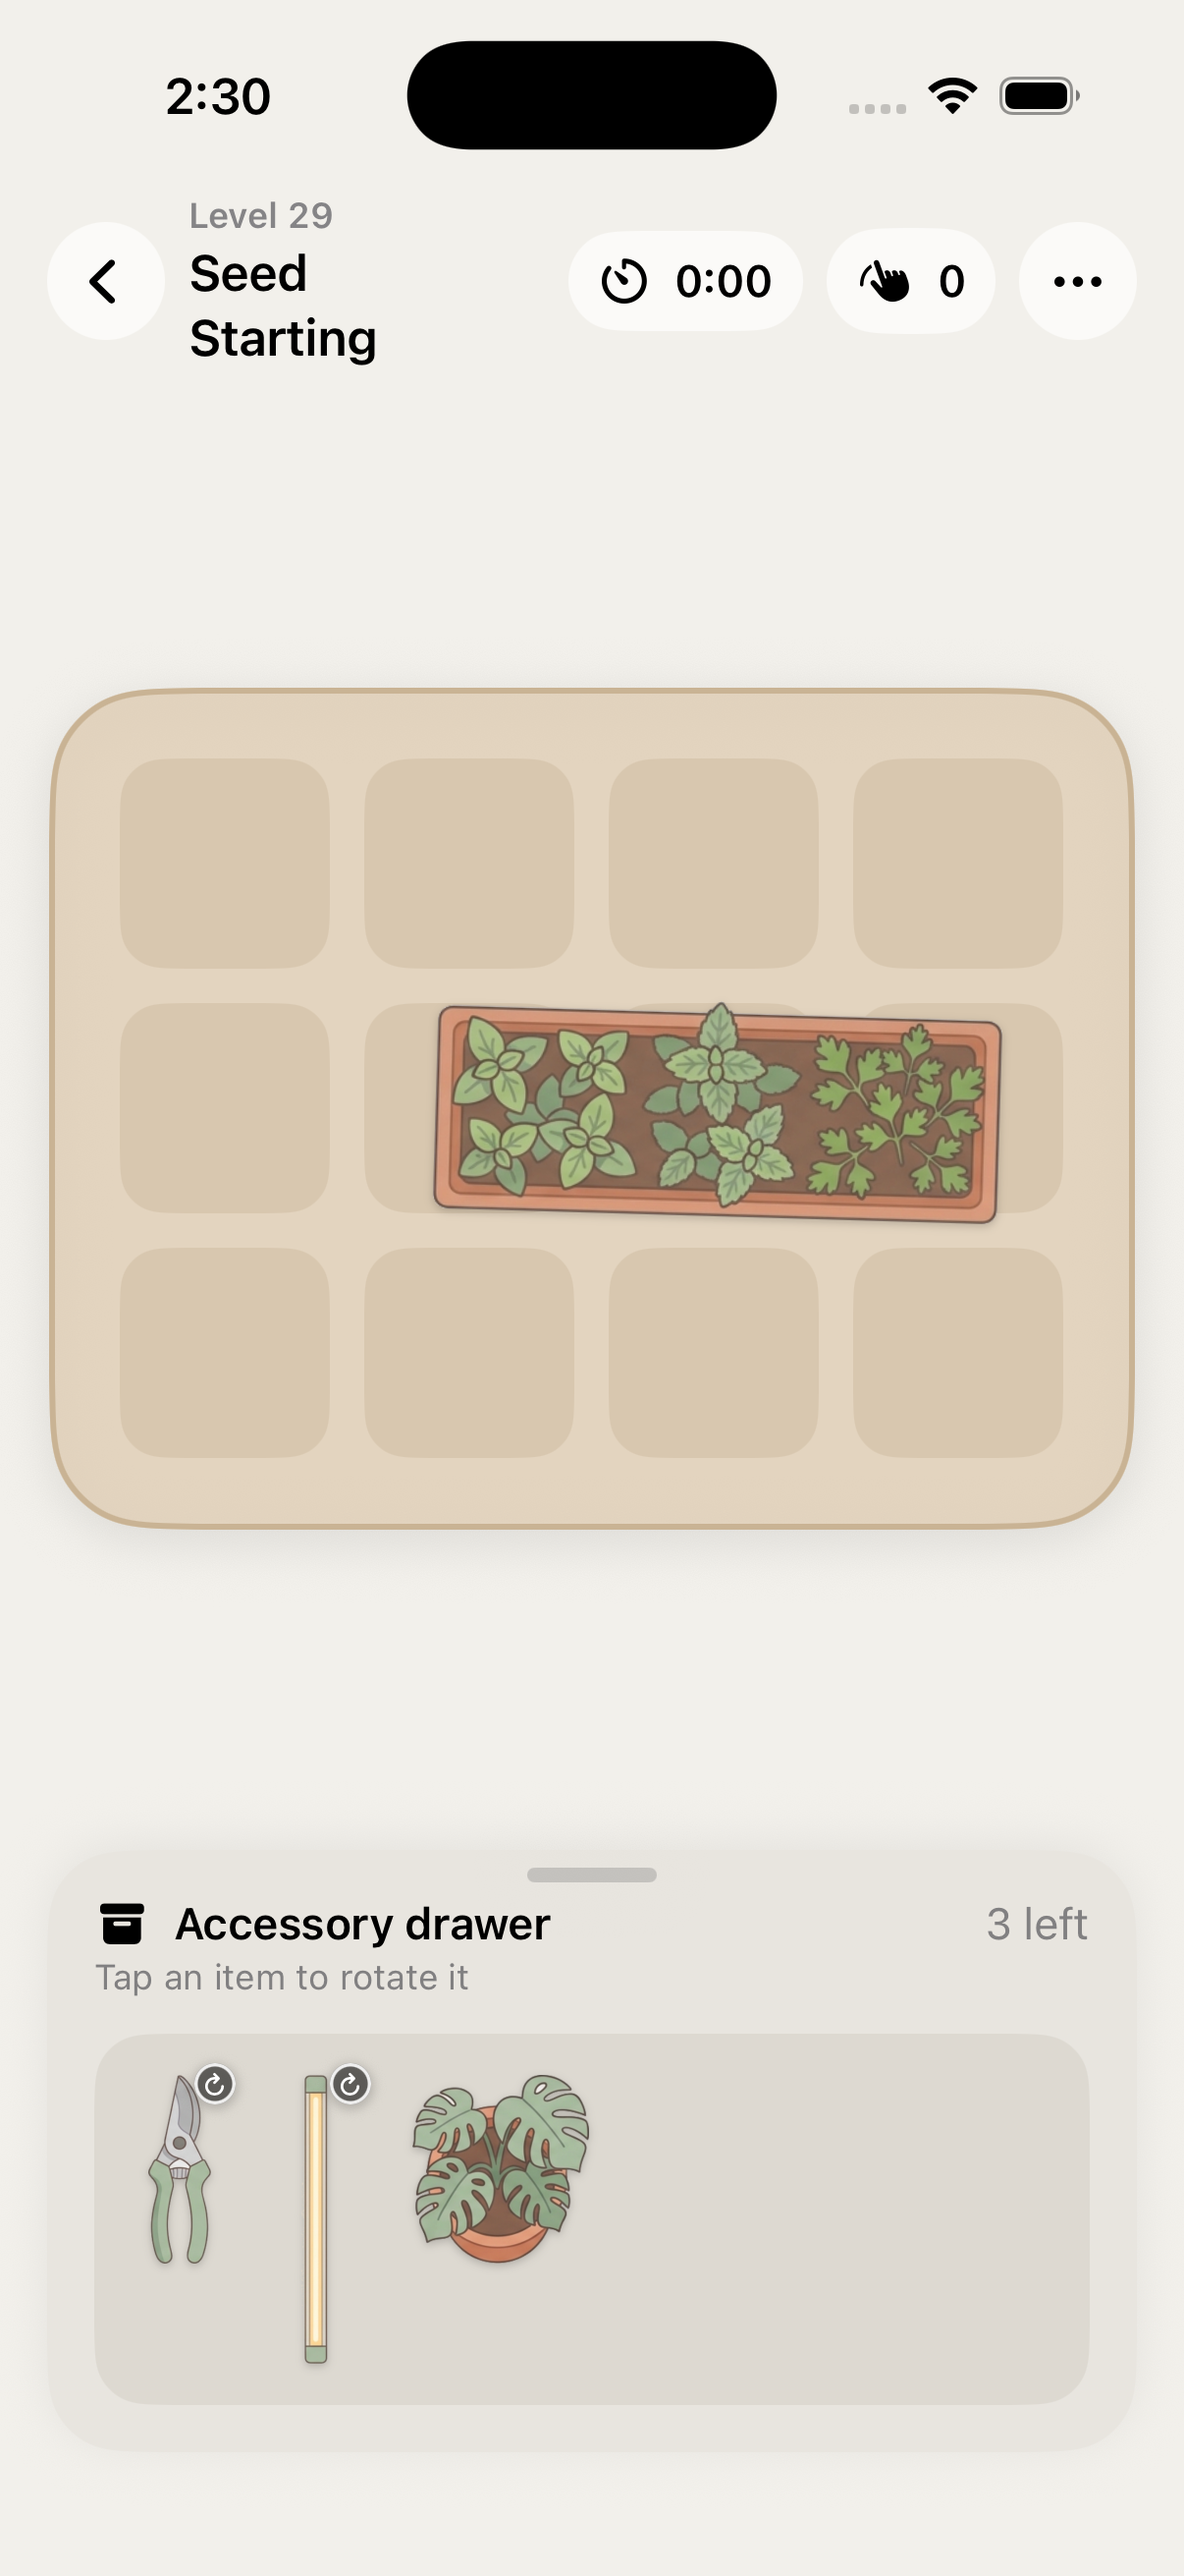
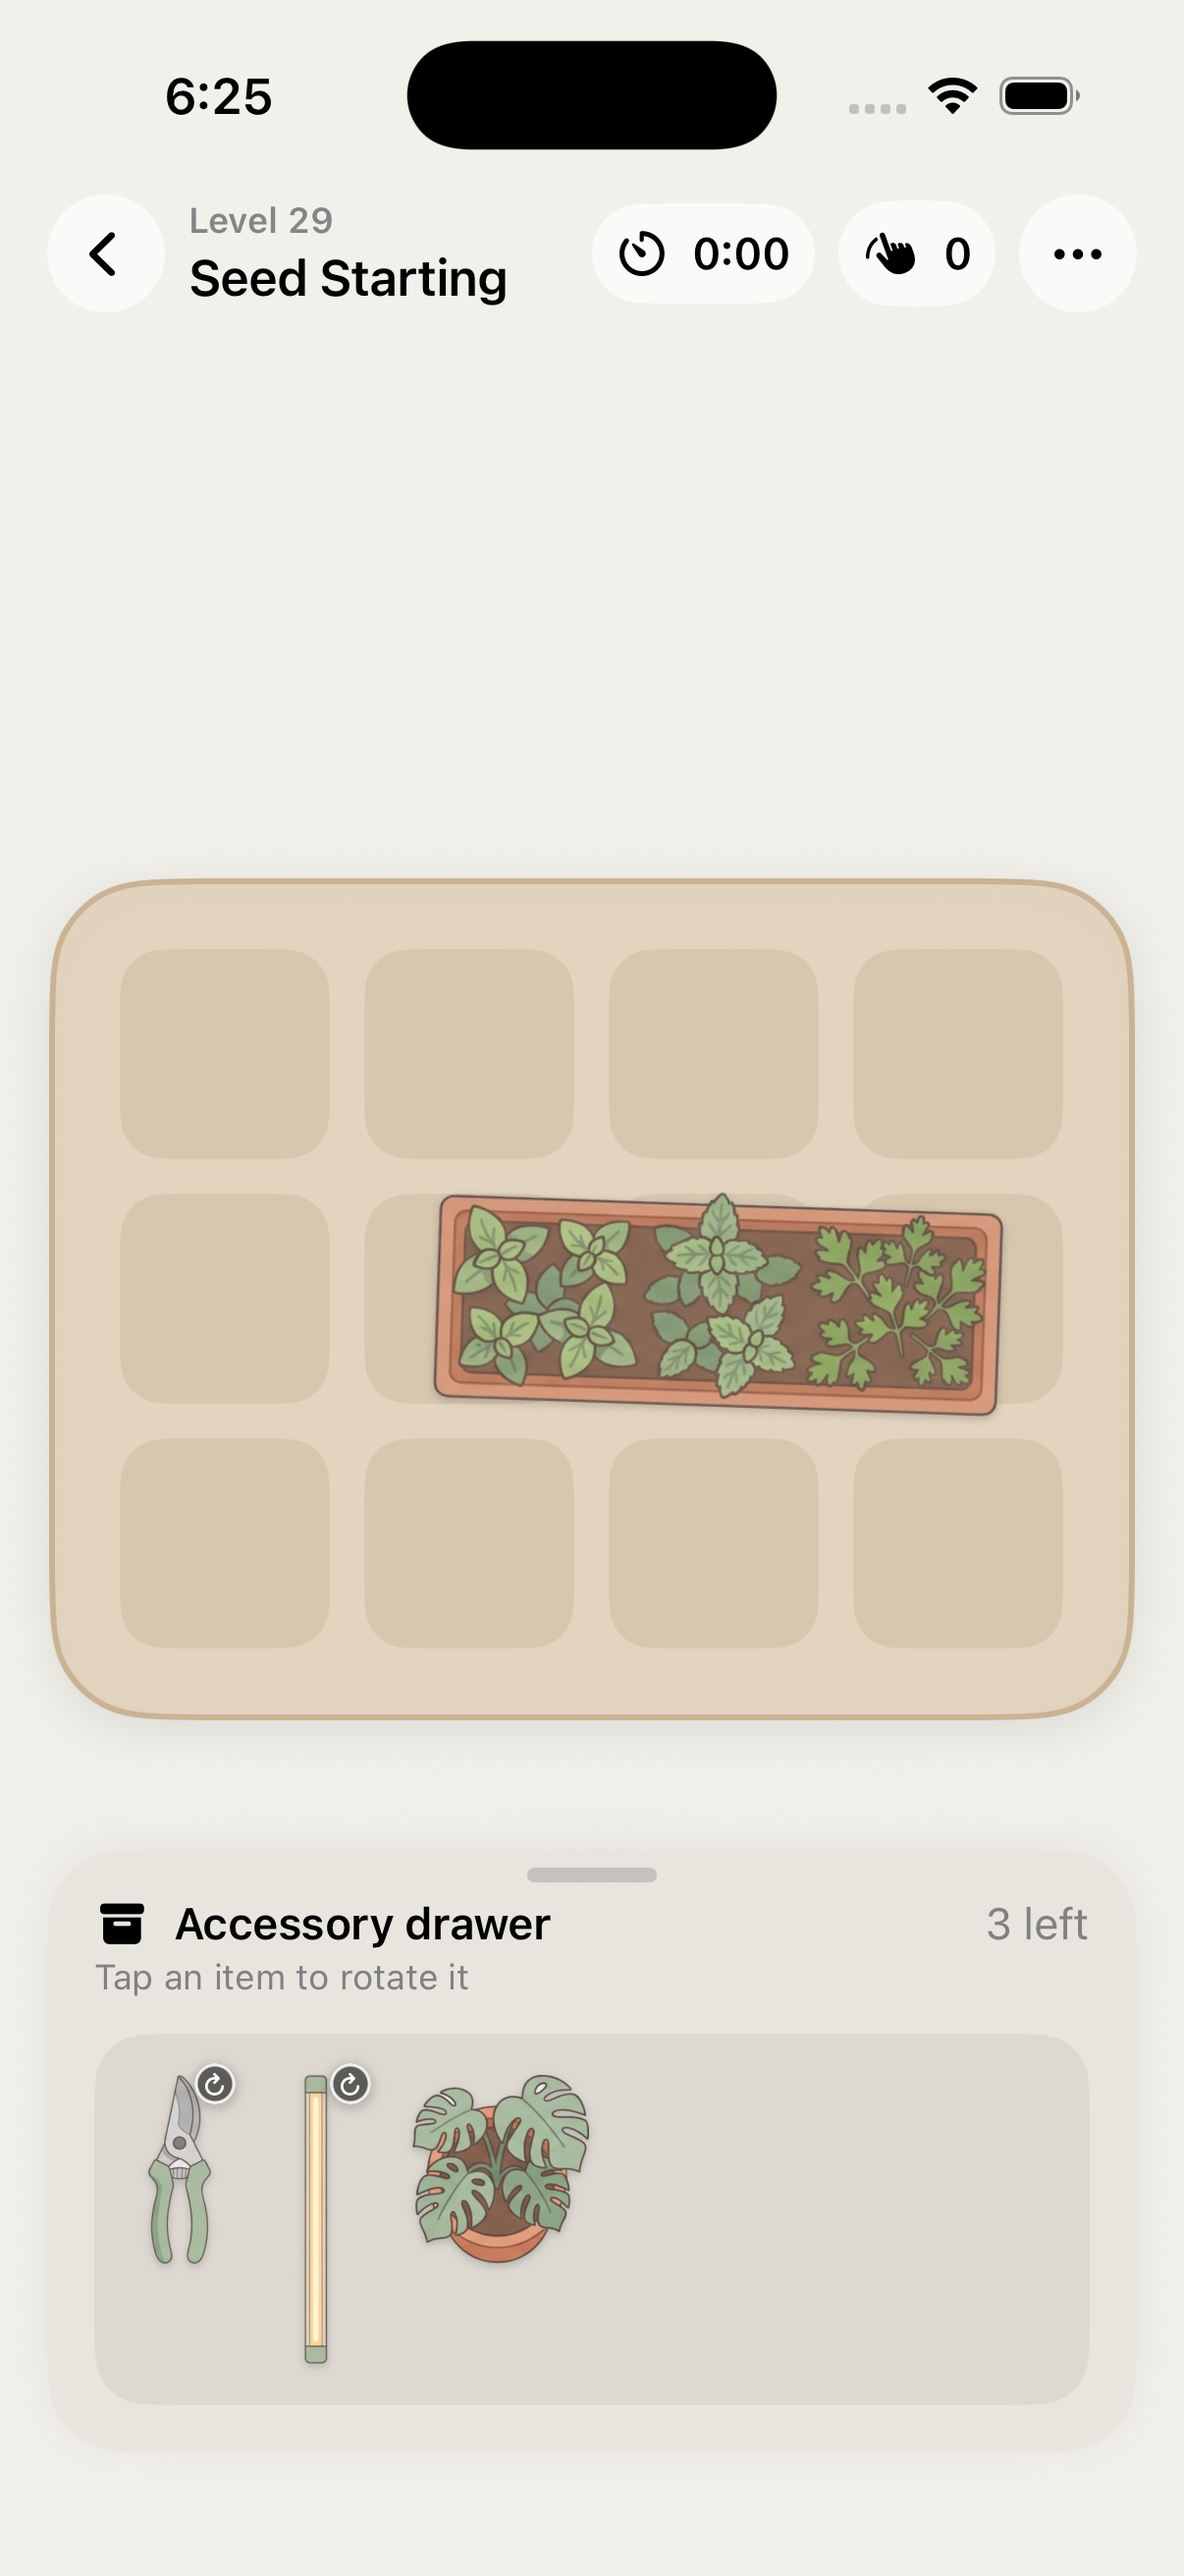
Mac build/test + screenshots (775f01d)

diff --git a/PROJECT_NOTES.md b/PROJECT_NOTES.md
@@ -1,6 +1,6 @@
 # Tidy Desk: Tech & Setup — Ghi chú dự án
 
-> Cập nhật: 2026-11-15 · Trạng thái: build OK + 107/108 test pass, 1 skip (ArtPreviewTests, đúng thiết kế) trên Mac ở commit `5a322ed` (38 màn / 4 chương, Baby Corner giai đoạn A, bé sinh động). **Chưa build:** Việc tốt (`31b700d`), 3 tab + chỉnh giao diện (`760771f`) → TestFlight bản 8 (bundle mới `com.powervh.wrapper.test.beta1`, mục 5b). `tools/check_levels.py`: 38/38 OK · `tools/check_assets.py`: 41/41 hình (16 WARN tỉ lệ). Ảnh: `screenshots/`.
+> Cập nhật: 2026-11-24 · Trạng thái: build OK + 117/118 test pass, 1 skip (ArtPreviewTests, đúng thiết kế) trên Mac ở commit `775f01d` (3 tab, Good Deeds + ParentGate). `tools/check_levels.py`: 38/38 OK · `tools/check_assets.py`: 41/41 hình (16 WARN tỉ lệ). Ảnh: `screenshots/`.
 
 ## 1. App này là gì
 Game giải đố "dọn dẹp" (Cozy Tidy / Organization Puzzle) cho iOS 17+, chủ đề **bàn làm việc / góc setup công nghệ**. Mỗi màn bắt đầu với một bàn bừa bộn: vài món đã nằm sẵn sai chỗ trên bàn, các món còn lại ở **ngăn kéo phụ kiện** (Accessory Drawer) phía dưới. Người chơi kéo thả để mọi thứ vừa khít mặt bàn, không đè nhau, không tràn viền. Xếp đủ là qua màn ("Setup Complete!"). Giao diện tiếng Anh, nhắm thị trường toàn cầu.
@@ -49,15 +49,16 @@ Lộ trình đầy đủ theo giai đoạn: [ROADMAP.md](ROADMAP.md).
 8. **Kiếm tiền (chưa chốt, xem `ROADMAP.md`):** đề xuất tải miễn phí + mua một lần mở toàn bộ (~2,99–4,99 USD), không quảng cáo; kiểm chứng trước bằng ý kiến người thử TestFlight và vài video ngắn cảnh dọn bàn.
 
 ## 5. Kết quả build/test trên Mac
-- **Ngày:** 2026-11-13 · **Commit đã build:** `5a322ed` (bé sinh động, thanh mờ sau status bar ở menu) · **Xcode:** 26.5 (17F42), iOS Simulator 26.5, iPhone 17. Làm theo `MAC_BUILD.md`.
-- **Build app:** OK ngay lần đầu, không lỗi, không warning trong code dự án hay asset catalog. **Không phải sửa file nào.**
-- **Test:** 108 test: **107 pass, 0 fail, 1 skip** (`ArtPreviewTests`, chỉ chạy khi bật `TEST_RUNNER_TIDY_SNAPSHOTS=1`). Dòng log "level_7.json: duplicate levelId 1" là do `LevelManagerTests` cố tình tạo file hỏng.
-- **Dữ liệu:** `check_levels.py` **38/38 OK**. `check_assets.py`: **41/41** hình (16 WARN tỉ lệ, không đổi: nặng nhất `grow_light` ~31%, `monitor` ~40%, `monitor_ultrawide` ~45%, `power_strip` ~63%).
-- **Ảnh từng hình (`screenshots/art/`):** 41 file + 2 tấm tổng hợp, không đổi so với `5e1f64b`.
-- **Ảnh app (`screenshots/app/`):** đủ 9 ảnh theo MAC_BUILD. Nhận xét:
-  - Menu: lần này mở ở đầu danh sách: tiêu đề "Tidy Desk", dòng "Test build · all levels unlocked", banner Baby Corner (bé 8 tháng, 9/18 trang, 20 xu), thẻ tổng "2 / 38 desks · 4 / 114 sao", Continue, tiêu đề chương 1. Thanh trạng thái có dải nền mờ riêng (`b8cf1d3`); không còn cảnh thẻ chạy dưới đồng hồ.
-  - Phòng bé: ảnh chụp đúng lúc bé đang chớp mắt (mắt khép hờ), tức hoạt ảnh `LivelyBabyView` chạy. Thở / ngáp / vỗ tay chỉ thấy được khi xem trên máy.
-  - Các màn chơi, phòng bé tối, Sổ tay em bé: như lần trước, không có gì vỡ.
+- **Ngày:** 2026-11-24 · **Commit đã build:** `775f01d` (gồm `31b700d` Good Deeds + ParentGate, `760771f` 3 tab Desks/Baby/Deeds) · **Xcode:** 26.5 (17F42), iOS Simulator 26.5, iPhone 17. Làm theo `MAC_BUILD.md`.
+- **Build app:** OK ngay lần đầu (đã `xcodegen generate` cho file mới), không lỗi, không warning trong code dự án hay asset catalog. **Không phải sửa file nào.**
+- **Test:** **118 test** (đúng kỳ vọng): **117 pass, 0 fail, 1 skip** (`ArtPreviewTests`, chỉ chạy khi bật `TEST_RUNNER_TIDY_SNAPSHOTS=1`). `GoodDeedTests` mới pass hết.
+- **Dữ liệu:** `check_levels.py` **38/38 OK**. `check_assets.py`: **41/41** hình (16 WARN tỉ lệ, không đổi).
+- **Ảnh từng hình (`screenshots/art/`):** 41 file + 2 tấm tổng hợp, không đổi.
+- **Ảnh app (`screenshots/app/`):** đủ 10 ảnh theo MAC_BUILD (mới: `gooddeeds_light`). Nhận xét:
+  - Thanh tab nổi Desks / Baby / Deeds hiện ở menu, phòng bé và Good Deeds; ẩn trong màn chơi (đúng).
+  - Màn chơi: tiêu đề một dòng "Streamer Corner" vừa khít cạnh đồng hồ / số nước; khoảng cách bàn – ngăn kéo cân đối.
+  - Phòng bé: bé có viền nâu nhạt, tách rõ khỏi nền pastel.
+  - Good Deeds: thẻ bé + 20 xu, 4 việc tốt (Exercise +10, Helped at home +15, School +20, Kind +10 · 0/2 today), "This week 0 ⭐". **Lỗi nhỏ:** dòng chữ hồng nhạt "Test build · … daily …" ở cuối danh sách nằm **dưới thanh tab**, chữ lộ qua nền mờ của tab → cần thêm khoảng đệm dưới (`safeAreaInset`/padding bằng chiều cao thanh tab) cho ScrollView của Good Deeds (có thể cả menu và phòng bé).
 
 ## 5b. TestFlight (bản thử, mượn team RETALIX USA, INC)
 - **Bundle ID beta hiện tại: `com.powervh.wrapper.test.beta1`** (đổi 2026-11-24 theo yêu cầu người dùng, áp dụng từ build 8), team `62SFVG2ZD8` (tài khoản Xcode `vu.huynh@ncr.com`). **Trước khi upload lần đầu với bundle này:** phải có app trên App Store Connect gắn bundle `com.powervh.wrapper.test.beta1` (Apps › + › New App; nếu bundle chưa có trong danh sách thì đăng ký ở Certificates, Identifiers & Profiles › Identifiers, hoặc để `xcodebuild -allowProvisioningUpdates` tự đăng ký khi archive rồi tạo app ASC). Chưa có app thì upload báo lỗi không tìm thấy app: báo người dùng, đừng tự đổi sang bundle khác. Ghi tên app / Apple ID / SKU mới vào đây khi tạo xong.
@@ -74,6 +75,7 @@ xcodebuild -exportArchive -archivePath <tmp>/TidyDesk.xcarchive -exportOptionsPl
 - Icon hiện là icon tạm do `tools/generate_icon.py` vẽ (1024×1024, không alpha). Thay icon thật: ghi đè `Assets.xcassets/AppIcon.appiconset/AppIcon.png`.
 
 ## Lịch sử
+- 2026-11-24 (Build Mac `775f01d`): Good Deeds + 3 tab build OK không cần sửa gì, 117/118 pass + 1 skip. Chụp lại `screenshots/` (thêm `gooddeeds_light`).
 - 2026-11-24 (TestFlight): đổi bundle ID beta sang **`com.powervh.wrapper.test.beta1`** theo yêu cầu người dùng, áp dụng từ build 8 (mục 5b). Cần app App Store Connect mới gắn bundle này trước khi upload. App Wrapper Test New (`com.powervh.wrapper.test.beta`) dừng ở build 7.
 - 2026-11-15 (Thanh tab + chỉnh giao diện, **chưa build**): app chia **3 tab** (`RootTabView`): **Desks** (menu màn chơi; banner bé giờ chuyển sang tab Baby), **Baby** (phòng bé, không còn nút Back / nút 💛), **Deeds** (Việc tốt, không còn nút Done). Thanh tab ẩn khi đang chơi một màn. Cờ Debug `-openNursery` / `-openGoodDeeds` mở thẳng tab tương ứng; `-babyName` / `-babyMonths` gom vào `DebugLaunch.prepareBaby`. Sửa từ ảnh bản 7: (1) bé vẽ bằng code có **viền nâu ấm** (cả tay, chân) nên thân bé không còn chìm vào nền kem; (2) màn chơi: khoảng trống dư dồn lên trên bàn, bàn và ngăn kéo nằm sát nhau (≤ 20 pt); (3) tên màn **1 dòng** (tự thu nhỏ tới 60%), viên đồng hồ / số nước hẹp hơn.
 - 2026-11-15 (Việc tốt / Good Deeds, **chưa build**): bảng sticker việc tốt ngoài đời, mở bằng nút 💛 trong phòng bé (`GoodDeedsView`). 4 việc mặc định (`GoodDeeds`): 🏃 Exercise +10, 🧹 Helped at home +15, 📚 Good job at school +20, 💛 Kind or shared +10. Mỗi việc **1 lần/ngày** (Kindness 2 lần); **cổng phụ huynh** (`ParentGateView`): nhập kết quả phép nhân (đáp số 2 chữ số) rồi giữ nút 2 giây. Điểm → xu 1:1 + nửa số điểm thành điểm lớn, +10 vui; bé vỗ tay, tim/xu bay, có thể ra trang Sổ tay. Dòng "This week" hiện sticker 7 ngày. Chỉ lưu id việc + ngày trên máy (`BabyProfile.goodDeedIds/Dates`, mặc định rỗng → migrate tự động; giữ 60 ngày). Beta (`unlockAllBabyContent`): bỏ giới hạn mỗi ngày để test. Luật ở `BabyState.logGoodDeed` (+ helper `pay`), rung/âm `BabyFeedback.goodDeedLogged`. Test mới `GoodDeedTests` (10). Cờ Debug `-openGoodDeeds YES`, MAC_BUILD chụp thêm `gooddeeds_light`.
